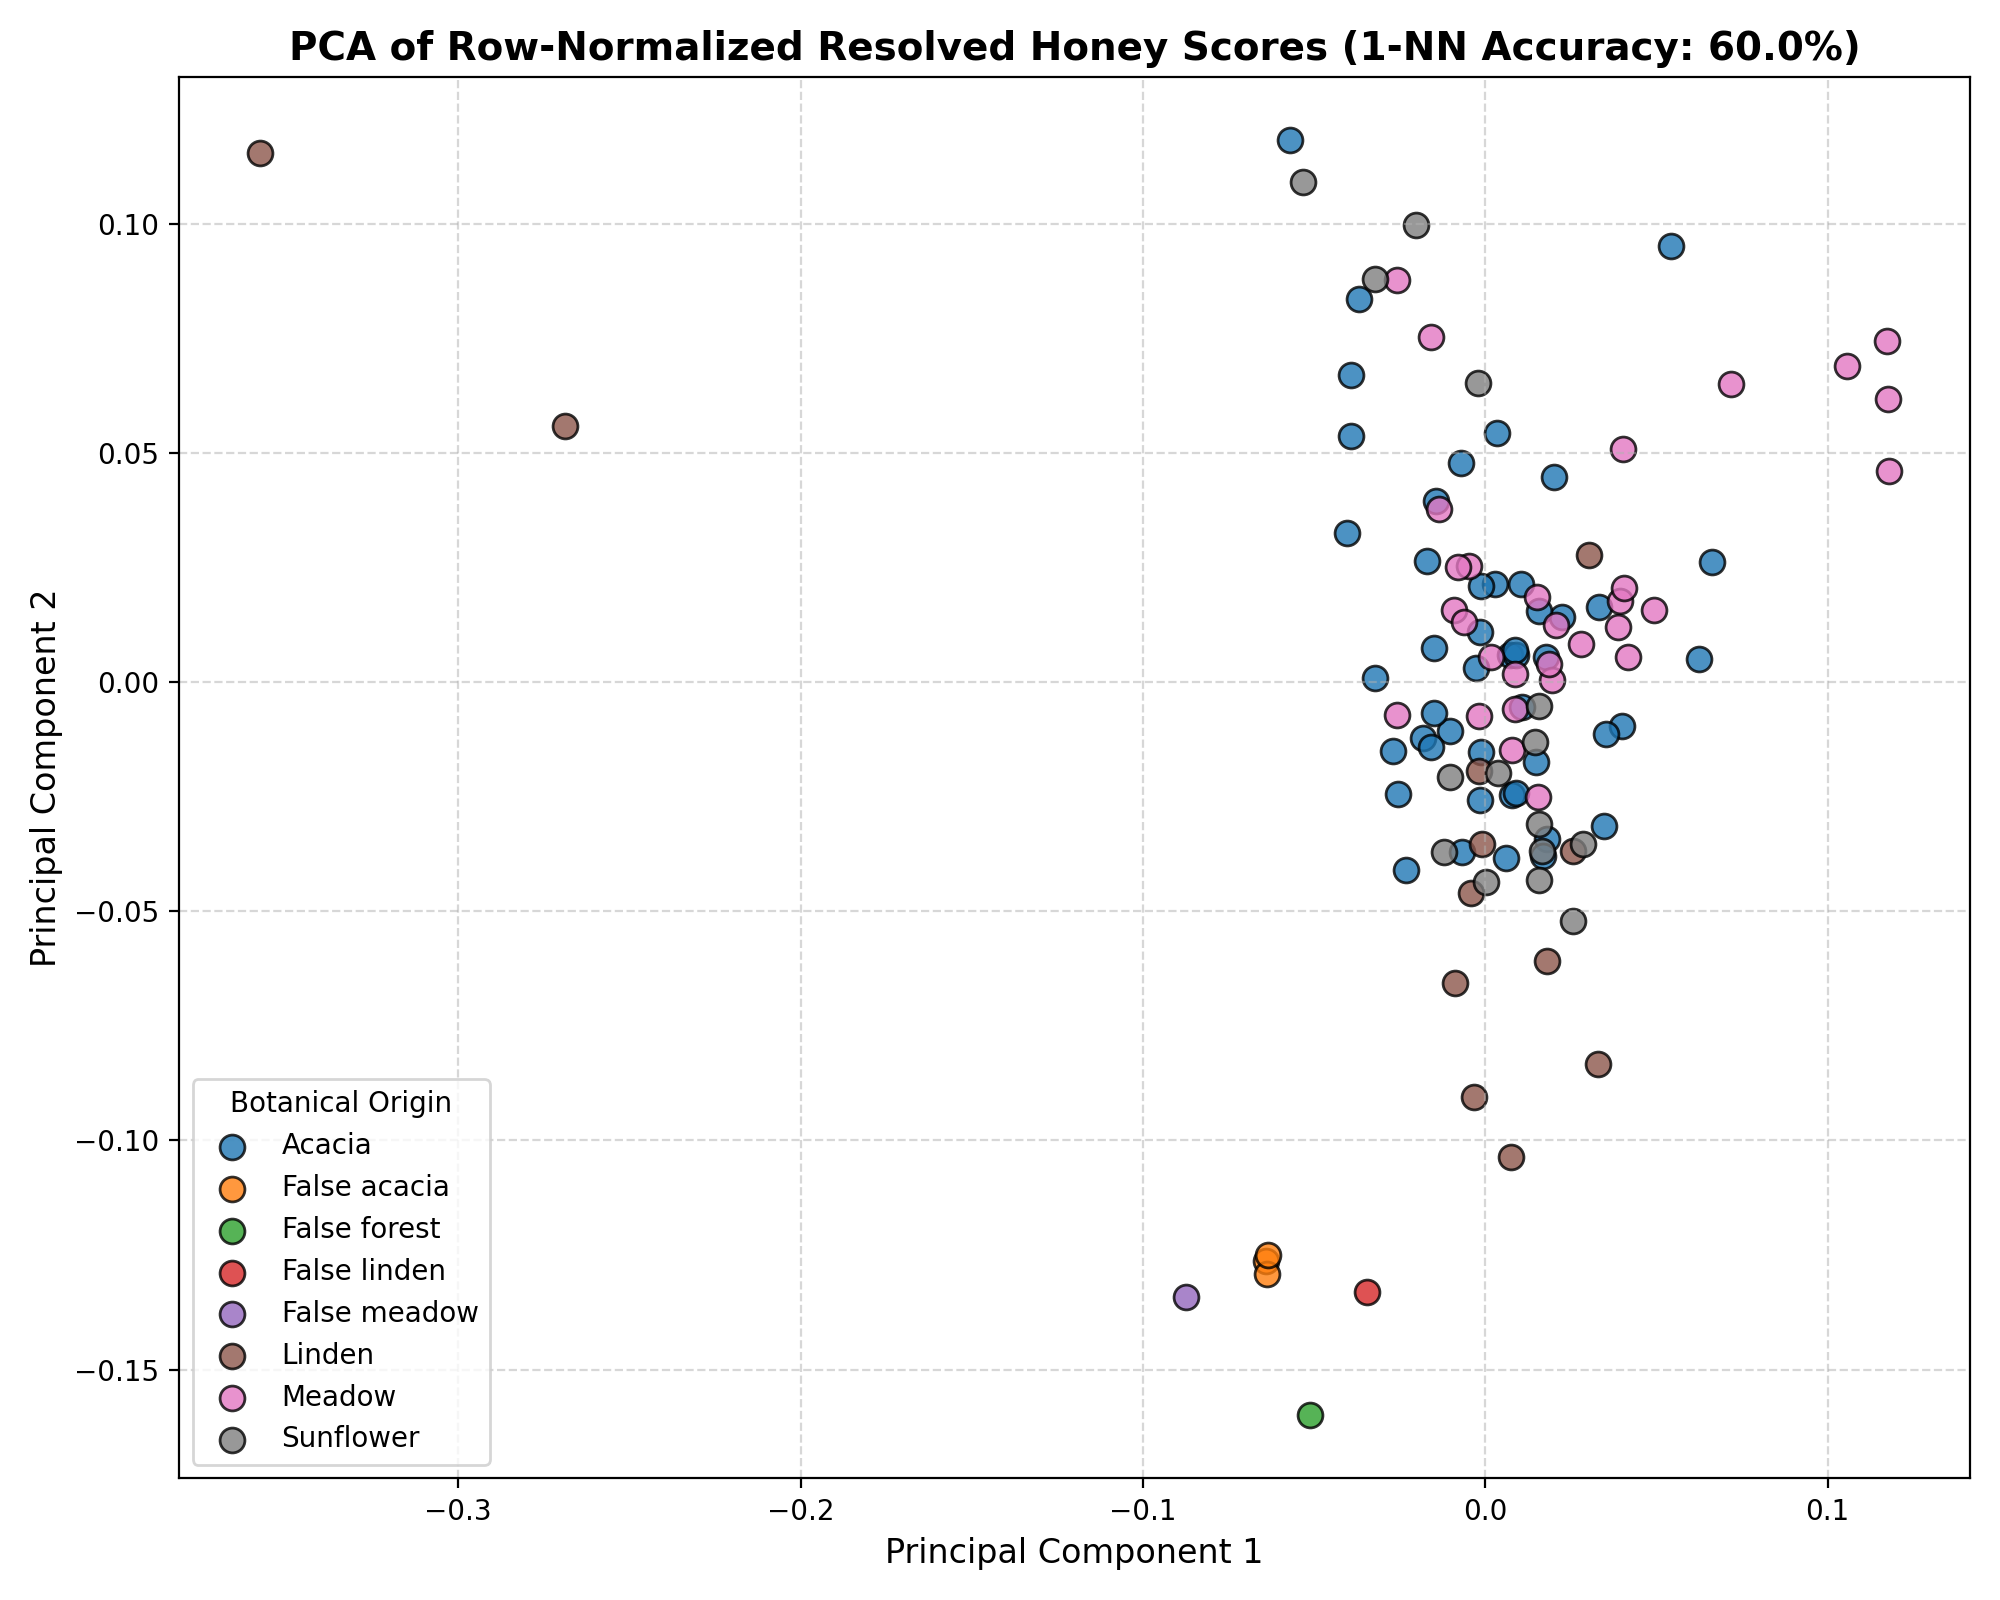
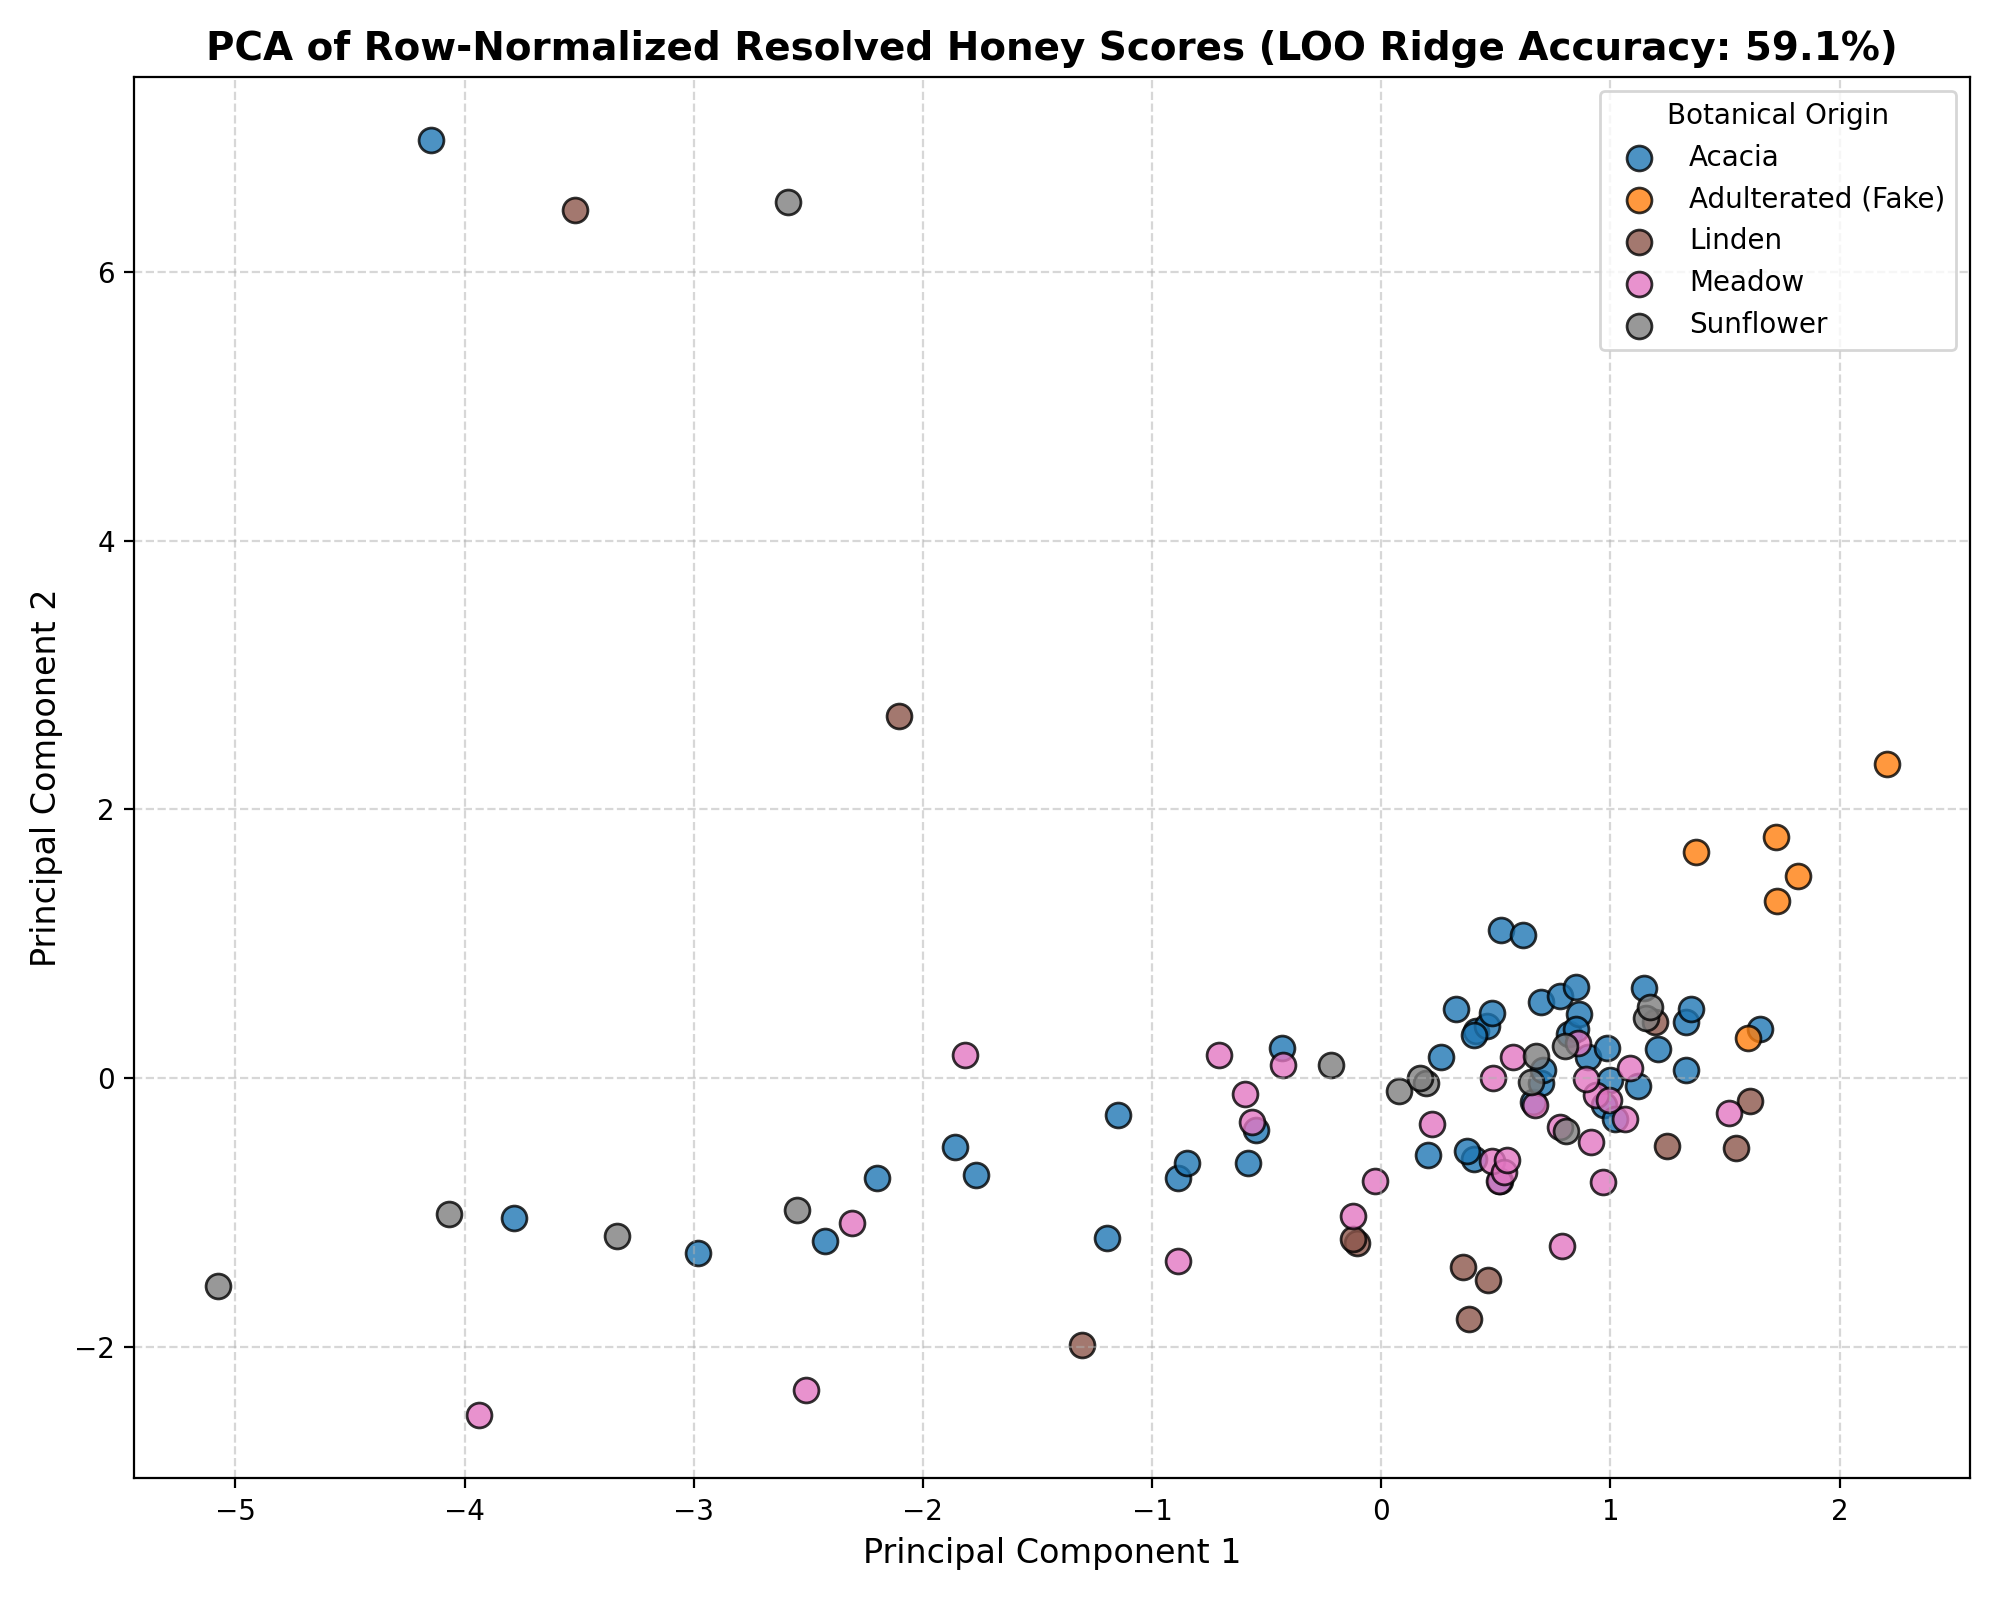
feat: enhance Honey dataset pipeline with 6-components, wider scatter masks, and Ridge diagnostics

diff --git a/src/train_honey.py b/src/train_honey.py
@@ -21,9 +21,9 @@ def generate_honey_scattering_mask(ex_wavelens, em_wavelens):
     num_em = len(em_wavelens)
     mask = np.ones((num_em, num_ex))
     
-    # 1st-order Rayleigh: em = ex (width +/- 15 nm)
-    # 2nd-order Rayleigh: em = 2*ex (width +/- 15 nm)
-    # Solvent Raman: em_raman = ex / (1.0 - 3.4e-4 * ex) (width +/- 12 nm)
+    # 1st-order Rayleigh: em = ex (width +/- 22 nm)
+    # 2nd-order Rayleigh: em = 2*ex (width +/- 22 nm)
+    # Solvent Raman: em_raman = ex / (1.0 - 3.4e-4 * ex) (width +/- 18 nm)
     for j in range(num_ex):
         ex = ex_wavelens[j]
         em_raman = ex / (1.0 - 3.4e-4 * ex)
@@ -31,20 +31,20 @@ def generate_honey_scattering_mask(ex_wavelens, em_wavelens):
             em = em_wavelens[k]
             
             # Mask 1st-order Rayleigh
-            if abs(em - ex) <= 15.0:
+            if abs(em - ex) <= 22.0:
                 mask[k, j] = 0.0
                 
             # Mask 2nd-order Rayleigh
-            if abs(em - 2 * ex) <= 15.0:
+            if abs(em - 2 * ex) <= 22.0:
                 mask[k, j] = 0.0
                 
             # Mask Raman
-            if abs(em - em_raman) <= 12.0:
+            if abs(em - em_raman) <= 18.0:
                 mask[k, j] = 0.0
                 
     return mask
 
-def train_honey_dataset(num_components=6, epochs=1500, lr=0.02, seed=42):
+def train_honey_dataset(num_components=6, epochs=3000, lr=0.03, seed=42):
     """
     Loads HoneyEEM.mat, builds masks, trains the PINN model, and evaluates botanical separation.
     """
@@ -71,9 +71,11 @@ def train_honey_dataset(num_components=6, epochs=1500, lr=0.02, seed=42):
     X_raw = X_raw[:, ::4, :]
     em_wavelens = em_wavelens[::4]
     
-    # Normalize globally to [0.0, 1.0] for stable gradients and consistent initialization scaling
-    global_max = np.nanmax(X_raw)
-    X_raw = X_raw / global_max
+    # Normalize each sample individually (slice normalization) to remove dilution/concentration effects
+    # and prevent samples with high intensities from dominating the loss function.
+    sample_maxes = np.nanmax(X_raw, axis=(1, 2), keepdims=True)
+    sample_maxes[sample_maxes <= 1e-8] = 1.0
+    X_raw = X_raw / sample_maxes
     
     num_samples = X_raw.shape[0]
     num_em = len(em_wavelens)
@@ -82,15 +84,19 @@ def train_honey_dataset(num_components=6, epochs=1500, lr=0.02, seed=42):
     print(f"Dataset downsampled & normalized: {num_samples} samples, {num_em} emission channels, {num_ex} excitation channels.")
     
     # Extract botanical classes
-    class_ids = dataset['class'][0, 0].squeeze() # (110,)
-    class_lookup_raw = dataset['classlookup'][0, 0]
-    class_names = {}
-    for row in class_lookup_raw:
-        cid = int(row[0][0][0])
-        cname = str(row[1][0])
-        class_names[cid] = cname
+    class_ids = dataset['class'][0, 0].squeeze().copy() # (110,)
+    # Group all fake honey classes (2, 3, 4, 5) into a single "Adulterated (Fake)" class (ID 2)
+    class_ids[(class_ids >= 2) & (class_ids <= 5)] = 2
+    
+    class_names = {
+        1: 'Acacia',
+        2: 'Adulterated (Fake)',
+        6: 'Linden',
+        7: 'Meadow',
+        8: 'Sunflower'
+    }
         
-    print("Class mapping:")
+    print("Class mapping (grouped):")
     for cid, name in sorted(class_names.items()):
         count = np.sum(class_ids == cid)
         print(f"  ID {cid}: {name} ({count} samples)")
@@ -189,41 +195,107 @@ def train_honey_dataset(num_components=6, epochs=1500, lr=0.02, seed=42):
         pred_B[:, r] /= (max_b if max_b > 1e-8 else 1.0)
         pred_C[:, r] /= (max_c if max_c > 1e-8 else 1.0)
         
-    # 6. Evaluation: Class separability analysis
-    # PCA on sample scores A using SVD from scratch
-    # We will do PCA on both raw and row-normalized scores
+    # 6. Evaluation & Diagnostics
+    print("\n--- Model Diagnostics ---")
+    alpha_val = model.alpha.detach().cpu().numpy()
+    print(f"Learned Alpha (molar absorptivities): {alpha_val}")
     
-    # 1. Raw scores PCA & Classification
-    A_centered = pred_A - np.mean(pred_A, axis=0)
-    U, S, Vt = np.linalg.svd(A_centered, full_matrices=False)
-    scores_pca = U[:, :2] * S[:2]
+    # Calculate reconstructed attenuation gamma = 10^(-Abs_ex)
+    # pred_A: (110, 6), pred_B: (52, 6) -> Abs_ex is sample-wise and wavelength-wise
+    # Let's compute average gamma across all sample-excitation pairs
+    # pred_A has shape (num_samples, num_components)
+    # pred_B has shape (num_ex, num_components)
+    # Abs_ex_matrix shape: (num_samples, num_ex)
+    Abs_ex_matrix = np.dot(pred_A, (alpha_val * pred_B).T)
+    gamma_matrix = 10.0 ** (-Abs_ex_matrix)
+    print(f"Attenuation gamma - Mean: {np.mean(gamma_matrix):.4f}, Min: {np.min(gamma_matrix):.4f}, Max: {np.max(gamma_matrix):.4f}")
     
-    correct_raw = 0
-    for i in range(num_samples):
-        dists = np.sum((pred_A - pred_A[i])**2, axis=1)
-        dists[i] = np.inf
-        nearest_idx = np.argmin(dists)
-        if class_ids[nearest_idx] == class_ids[i]:
-            correct_raw += 1
-    classification_acc = correct_raw / num_samples
-    print(f"Resolved sample scores 1-NN Leave-One-Out Classification Accuracy (Raw): {classification_acc * 100:.2f}%")
+    # Define multi-classifier evaluation function
+    def evaluate_knn(scores, labels, k_list=[1, 3, 5]):
+        num_samples = len(labels)
+        results = {}
+        for k in k_list:
+            correct = 0
+            for i in range(num_samples):
+                dists = np.sum((scores - scores[i])**2, axis=1)
+                dists[i] = np.inf
+                nearest_indices = np.argsort(dists)[:k]
+                nearest_labels = labels[nearest_indices]
+                unique, counts = np.unique(nearest_labels, return_counts=True)
+                pred_label = unique[np.argmax(counts)]
+                if pred_label == labels[i]:
+                    correct += 1
+            results[k] = correct / num_samples
+        return results
+
+    # Score normalizations
+    pred_A_l1 = pred_A / (np.sum(pred_A, axis=1, keepdims=True) + 1e-12)
+    pred_A_l2 = pred_A / (np.linalg.norm(pred_A, axis=1, keepdims=True) + 1e-12)
+    pred_A_std = (pred_A - np.mean(pred_A, axis=0)) / (np.std(pred_A, axis=0) + 1e-12)
+    pred_A_l2_std = (pred_A_l2 - np.mean(pred_A_l2, axis=0)) / (np.std(pred_A_l2, axis=0) + 1e-12)
     
-    # 2. Row-normalized scores PCA & Classification
-    # To avoid division by zero, we add a tiny epsilon to sum
-    pred_A_norm = pred_A / (np.sum(pred_A, axis=1, keepdims=True) + 1e-12)
-    A_norm_centered = pred_A_norm - np.mean(pred_A_norm, axis=0)
+    acc_raw = evaluate_knn(pred_A, class_ids)
+    acc_l1 = evaluate_knn(pred_A_l1, class_ids)
+    acc_l2 = evaluate_knn(pred_A_l2, class_ids)
+    acc_std = evaluate_knn(pred_A_std, class_ids)
+    acc_l2_std = evaluate_knn(pred_A_l2_std, class_ids)
+    
+    print("\n--- LOO k-NN Classification Accuracy ---")
+    print(f"Raw scores:         1-NN: {acc_raw[1]*100:.2f}%, 3-NN: {acc_raw[3]*100:.2f}%, 5-NN: {acc_raw[5]*100:.2f}%")
+    print(f"L1 Normalized:      1-NN: {acc_l1[1]*100:.2f}%, 3-NN: {acc_l1[3]*100:.2f}%, 5-NN: {acc_l1[5]*100:.2f}%")
+    print(f"L2 Normalized:      1-NN: {acc_l2[1]*100:.2f}%, 3-NN: {acc_l2[3]*100:.2f}%, 5-NN: {acc_l2[5]*100:.2f}%")
+    print(f"Standardized (Z):   1-NN: {acc_std[1]*100:.2f}%, 3-NN: {acc_std[3]*100:.2f}%, 5-NN: {acc_std[5]*100:.2f}%")
+    print(f"L2 + Standardized:  1-NN: {acc_l2_std[1]*100:.2f}%, 3-NN: {acc_l2_std[3]*100:.2f}%, 5-NN: {acc_l2_std[5]*100:.2f}%")
+    
+    # Supervised classification using Ridge Classifier LOO (replicates PLS-DA linear discriminant intent)
+    def evaluate_ridge_loo(scores, labels, alpha=1.0):
+        num_samples = len(labels)
+        unique_classes = np.unique(labels)
+        num_classes = len(unique_classes)
+        label_to_idx = {l: idx for idx, l in enumerate(unique_classes)}
+        y_indices = np.array([label_to_idx[l] for l in labels])
+        
+        correct = 0
+        for i in range(num_samples):
+            X_train = np.delete(scores, i, axis=0)
+            y_train = np.delete(y_indices, i, axis=0)
+            X_test = scores[i:i+1]
+            
+            Y_train = np.zeros((num_samples - 1, num_classes))
+            Y_train[np.arange(num_samples - 1), y_train] = 1.0
+            
+            X_train_bias = np.hstack([X_train, np.ones((num_samples - 1, 1))])
+            X_test_bias = np.hstack([X_test, np.ones((1, 1))])
+            
+            XTX = np.dot(X_train_bias.T, X_train_bias)
+            I = np.eye(XTX.shape[0])
+            I[-1, -1] = 0.0  # Do not regularize bias
+            W = np.linalg.solve(XTX + alpha * I, np.dot(X_train_bias.T, Y_train))
+            
+            pred = np.dot(X_test_bias, W)
+            pred_class = unique_classes[np.argmax(pred, axis=1)[0]]
+            if pred_class == labels[i]:
+                correct += 1
+        return correct / num_samples
+
+    ridge_raw = evaluate_ridge_loo(pred_A, class_ids)
+    ridge_l1 = evaluate_ridge_loo(pred_A_l1, class_ids)
+    ridge_l2 = evaluate_ridge_loo(pred_A_l2, class_ids)
+    ridge_std = evaluate_ridge_loo(pred_A_std, class_ids)
+    ridge_l2_std = evaluate_ridge_loo(pred_A_l2_std, class_ids)
+    
+    print("\n--- LOO Ridge Classifier Accuracy (Supervised) ---")
+    print(f"Raw scores:         {ridge_raw*100:.2f}%")
+    print(f"L1 Normalized:      {ridge_l1*100:.2f}%")
+    print(f"L2 Normalized:      {ridge_l2*100:.2f}%")
+    print(f"Standardized (Z):   {ridge_std*100:.2f}%")
+    print(f"L2 + Standardized:  {ridge_l2_std*100:.2f}%")
+    
+    # Use L2+Std Ridge classification accuracy for display in the plot title
+    classification_acc_norm = ridge_l2_std
+    A_norm_centered = pred_A_l2_std
     U_n, S_n, Vt_n = np.linalg.svd(A_norm_centered, full_matrices=False)
     scores_norm_pca = U_n[:, :2] * S_n[:2]
-    
-    correct_norm = 0
-    for i in range(num_samples):
-        dists = np.sum((pred_A_norm - pred_A_norm[i])**2, axis=1)
-        dists[i] = np.inf
-        nearest_idx = np.argmin(dists)
-        if class_ids[nearest_idx] == class_ids[i]:
-            correct_norm += 1
-    classification_acc_norm = correct_norm / num_samples
-    print(f"Resolved sample scores 1-NN Leave-One-Out Classification Accuracy (Row-Normalized): {classification_acc_norm * 100:.2f}%")
     
     # 7. Plotting and Visualizations
     os.makedirs('notebooks', exist_ok=True)
@@ -282,7 +354,7 @@ def train_honey_dataset(num_components=6, epochs=1500, lr=0.02, seed=42):
             s=80
         )
         
-    plt.title(f'PCA of Row-Normalized Resolved Honey Scores (1-NN Accuracy: {classification_acc_norm*100:.1f}%)', fontsize=14, fontweight='bold')
+    plt.title(f'PCA of Row-Normalized Resolved Honey Scores (LOO Ridge Accuracy: {classification_acc_norm*100:.1f}%)', fontsize=14, fontweight='bold')
     plt.xlabel('Principal Component 1', fontsize=12)
     plt.ylabel('Principal Component 2', fontsize=12)
     plt.grid(True, linestyle='--', alpha=0.5)